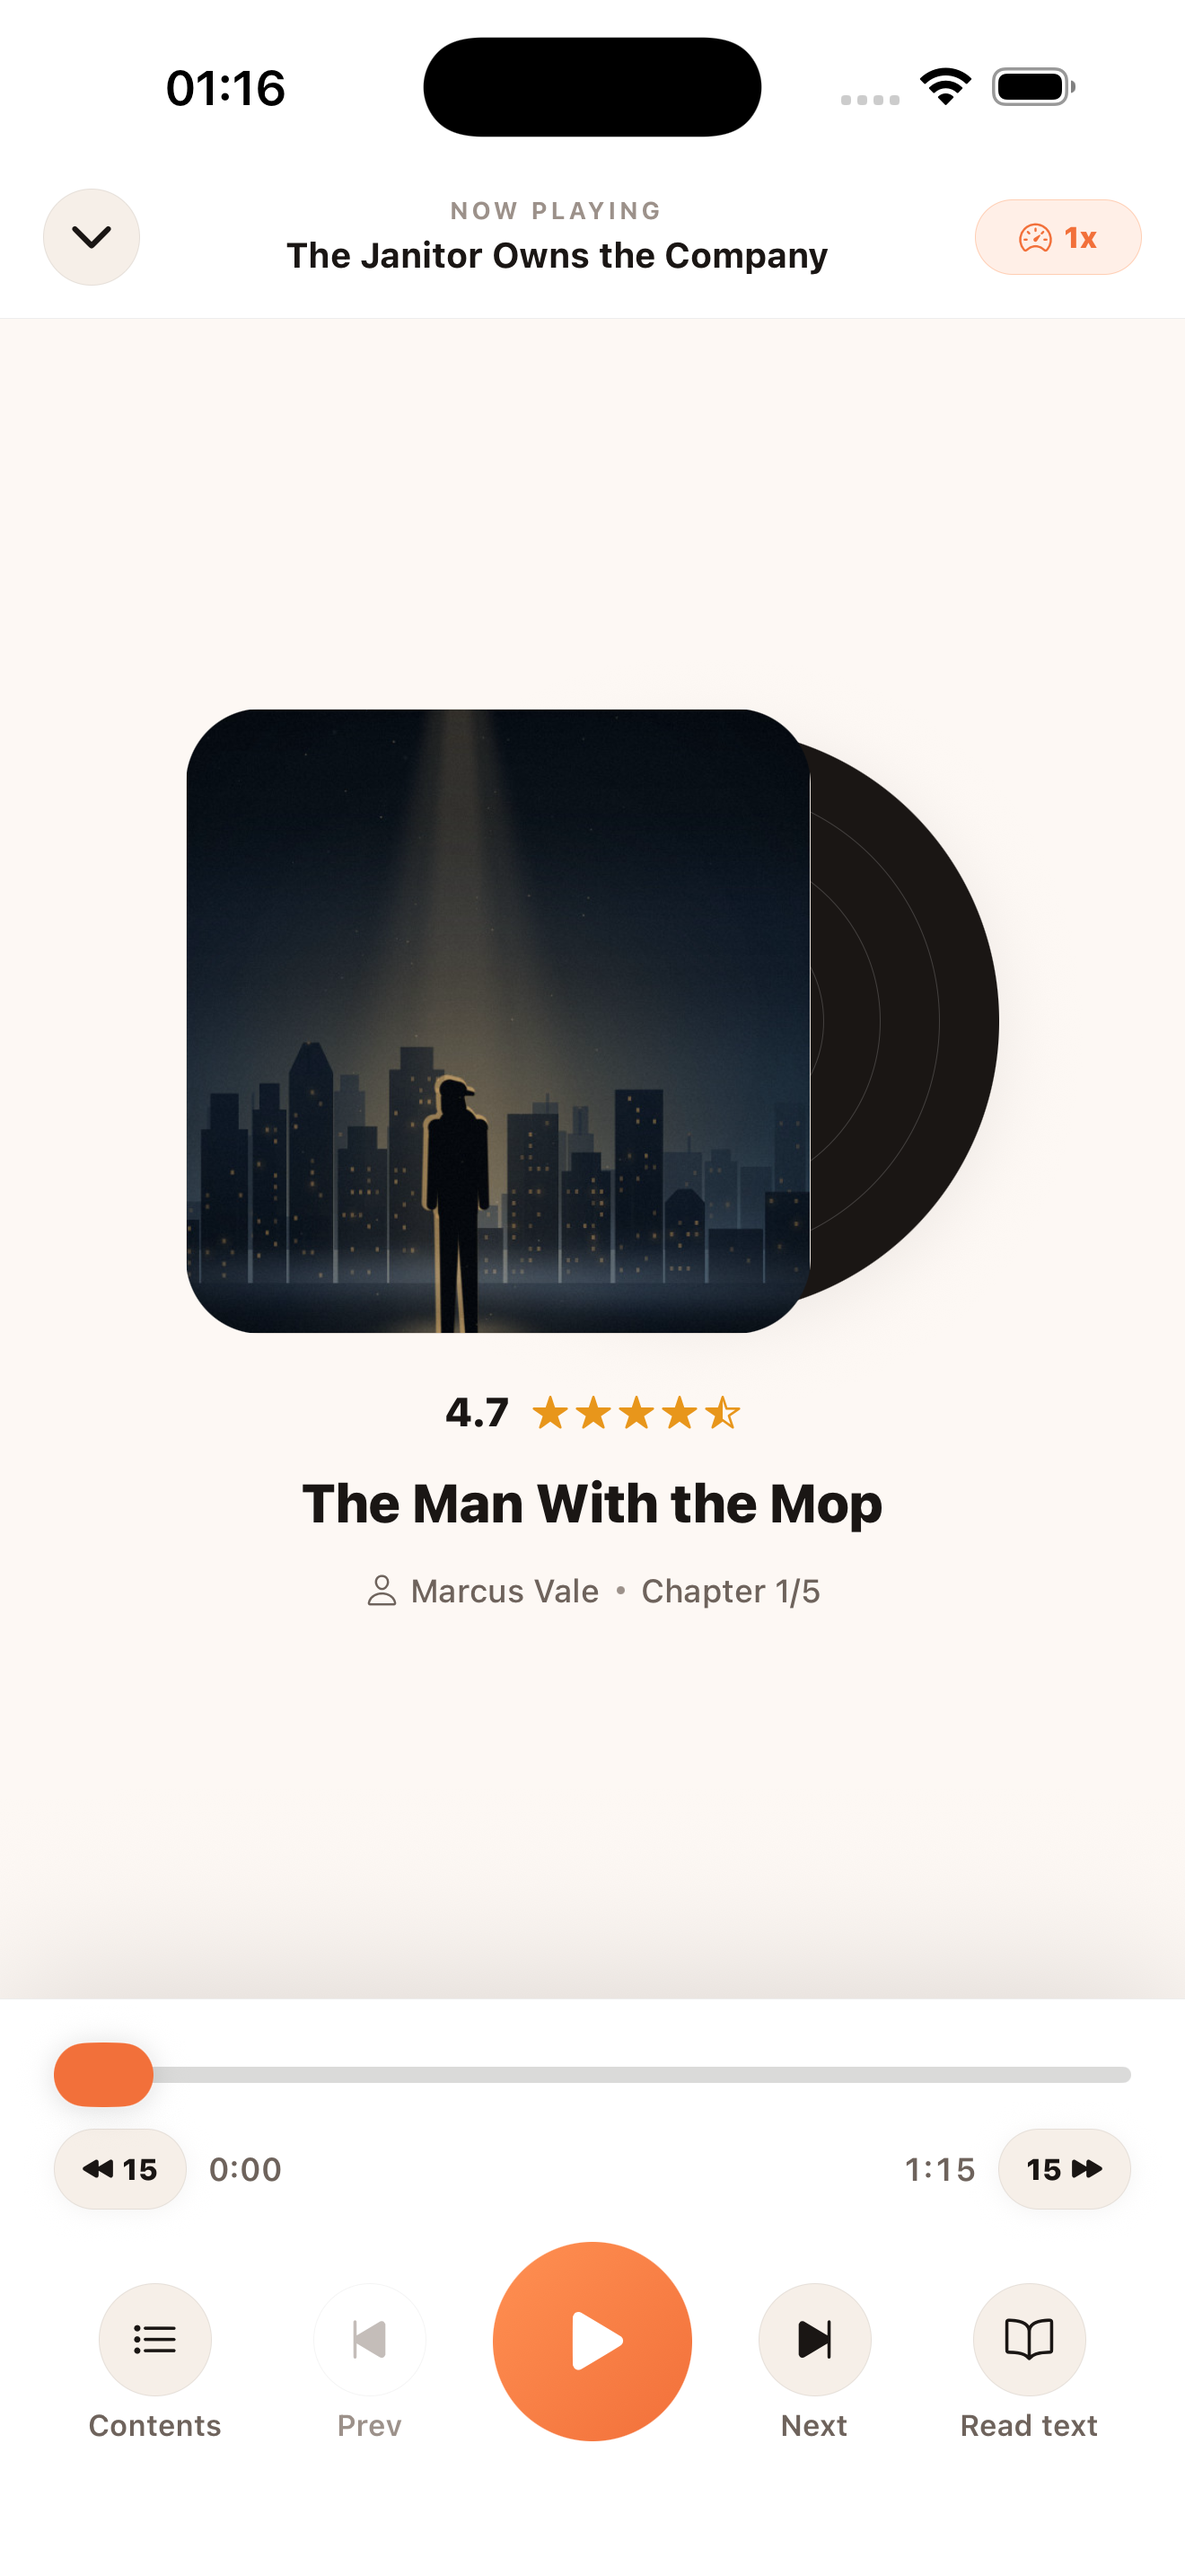
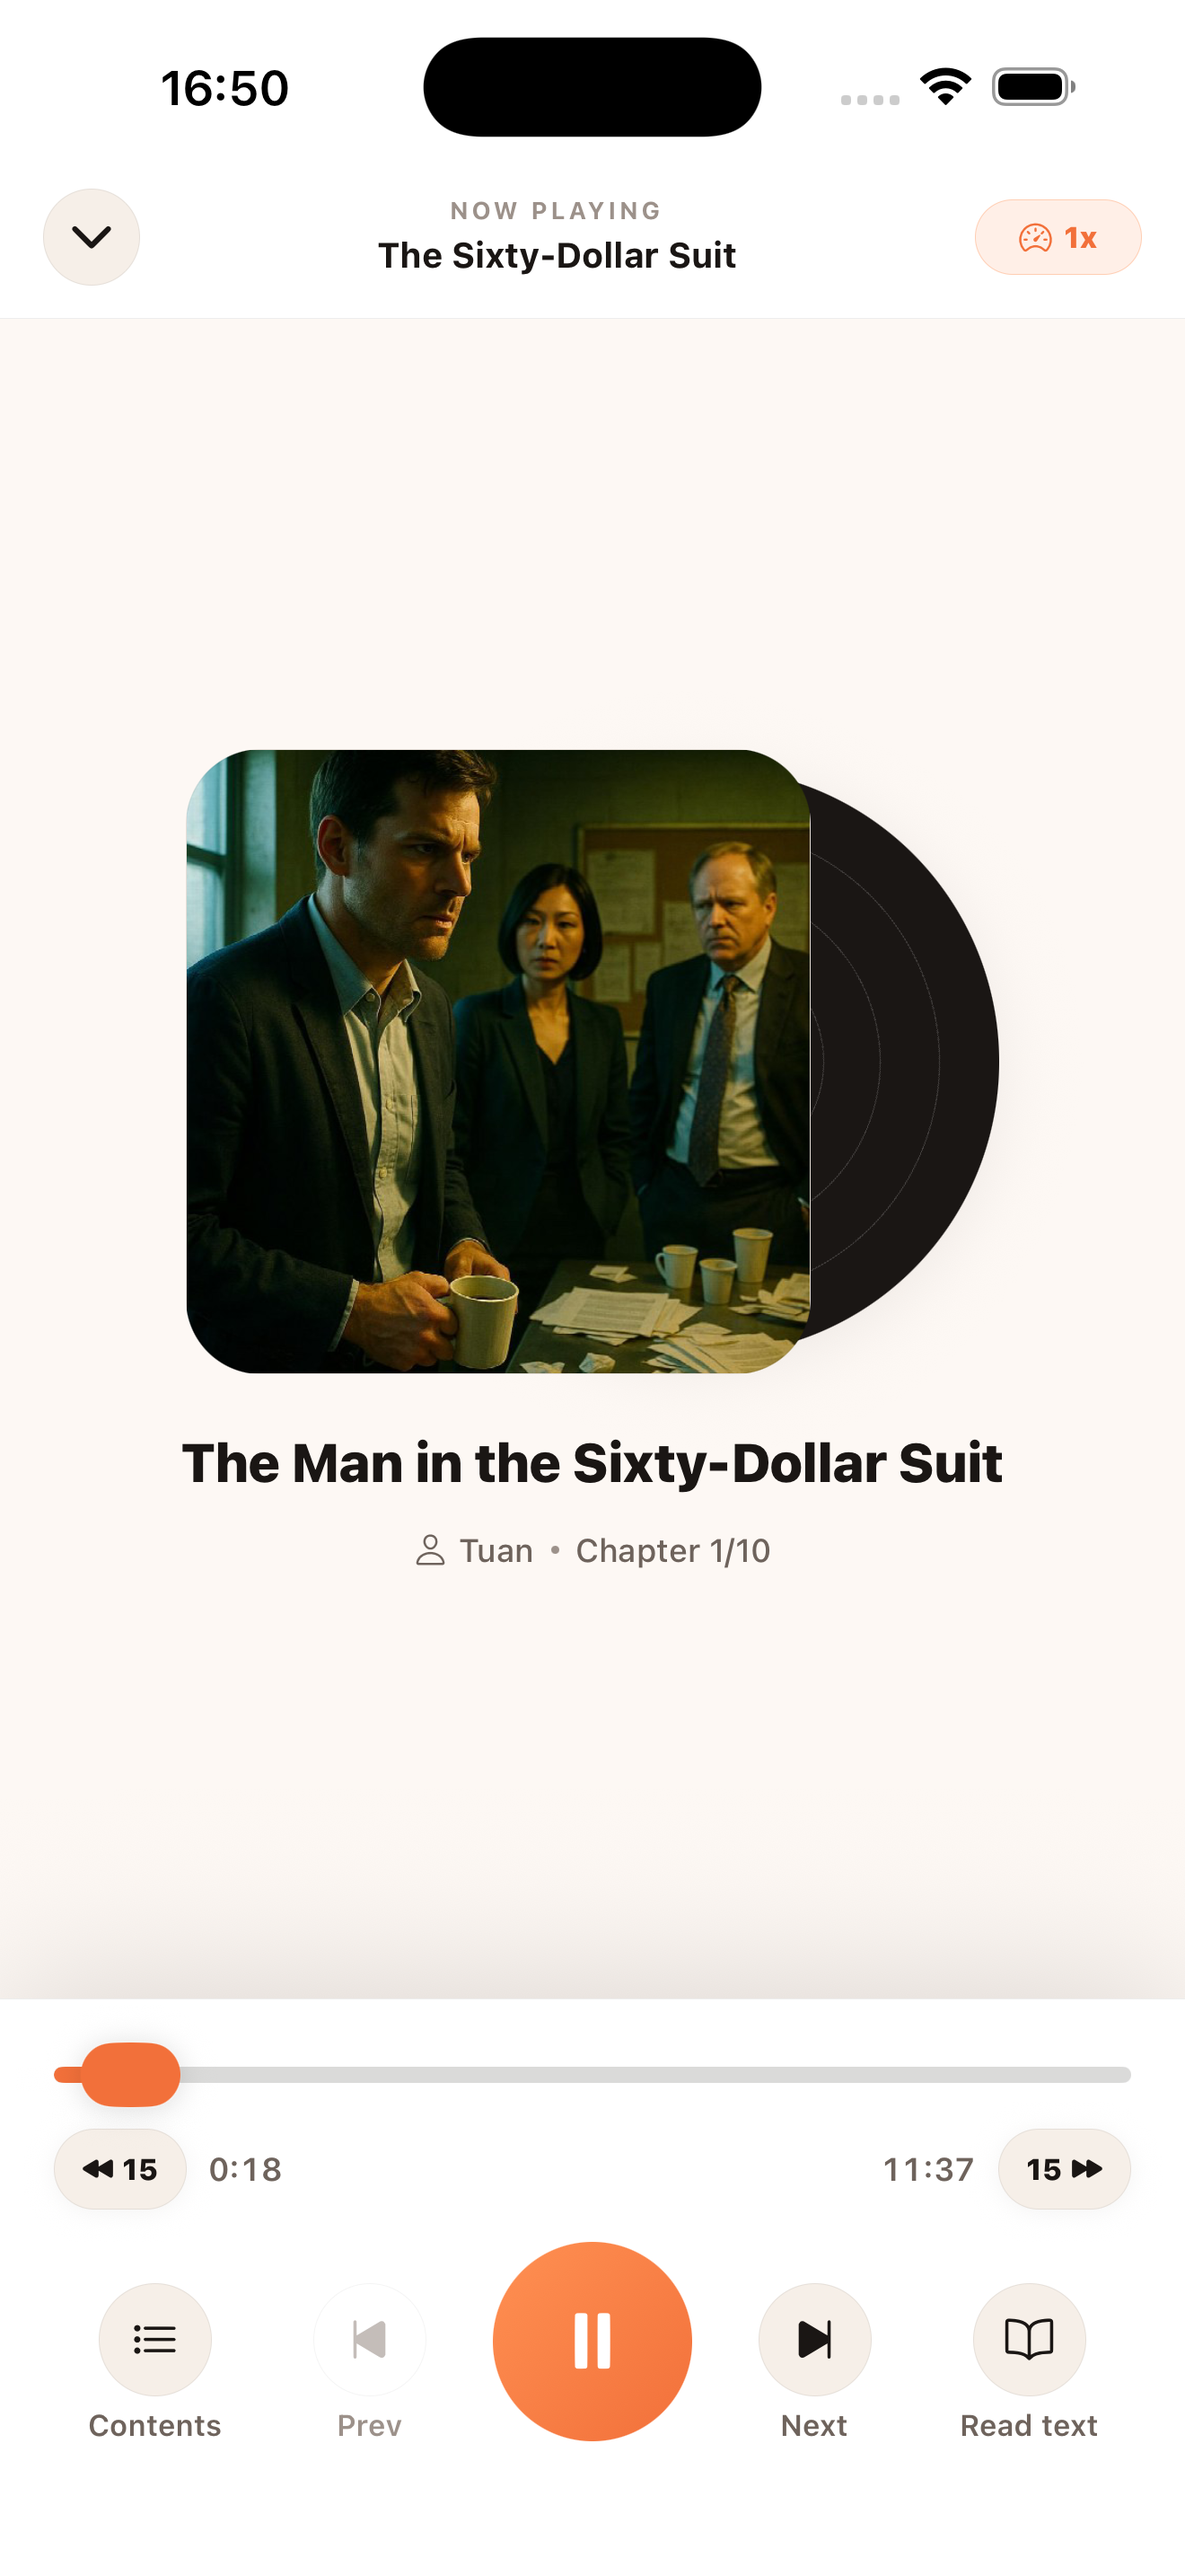
Chụp lại ảnh App Store từ bản 1.0.0 (3), và rút gọn ghi chú cho người review
Bộ ảnh cũ chụp từ bản 1.0.0 (2) lúc 01:18 sáng, trước ba commit dọn dẹp, nên
quảng cáo trên gian hàng những thứ binary không còn có: điểm đánh giá bịa
"8.9 ★ 1.2K ratings", ô giữ chỗ "Lucky draw — Coming soon", và mức thưởng cũ
"+30 coins / 0-150" trong khi bản nộp trả 90 xu mỗi quảng cáo, tối đa 360. Đây
là vi phạm 2.3.3 mà Apple đã nhắc riêng ở lần từ chối trước, cộng thêm việc
quảng cáo tính năng "coming soon" vốn bị cấm thẳng.

Ảnh mới chụp từ chính bản đã nộp, trên iPhone 17 Pro Max (1320×2868), lấy dữ
liệu production hiện tại nên phản ánh đúng 11 truyện và bộ bìa mới.

3-reader.png CHƯA dùng được: banner quảng cáo dính cố định ở đầu màn đọc, và
trên simulator AdMob luôn dán nhãn "Test mode" lên đó — nộp lên là tự chuốc lại
đúng nghi ngờ "app chạy quảng cáo thử nghiệm" của lần trước. Cuộn không đẩy được
banner ra khỏi khung. Phải chụp lại trên máy thật, tiện thể lúc quay video demo.

Thêm APP_REVIEW_NOTES.md: ô App Review Information → Notes chặn cứng 4.000 ký
tự, phần A trong APPLE_REVIEW_REPLY.md dài 7.880. Bản rút gọn 3.994 ký tự giữ
đủ cả sáu mục Apple hỏi; bản đầy đủ vẫn dùng cho ô Reply (ô đó không giới hạn).

diff --git a/store/APP_REVIEW_NOTES.md b/store/APP_REVIEW_NOTES.md
@@ -1,0 +1,43 @@
+# Ô App Review Information → Notes (giới hạn 4.000 ký tự)
+
+Ô Notes trong App Store Connect chặn cứng ở 4.000 ký tự. Phần A trong
+APPLE_REVIEW_REPLY.md dài 7.880 ký tự — đó là văn bản đầy đủ để dán vào ô
+**Reply** (không giới hạn) khi trả lời thư từ chối. Bản dưới đây là bản rút gọn
+cho ô **Notes**, giữ nguyên cả 6 mục Apple hỏi.
+
+Nhớ thay [PASTE LINK] bằng link video demo trước khi dán.
+
+```text
+NO ACCOUNT, NO PURCHASES, NO TRACKING
+
+1. SCREEN RECORDING
+Attached / at: [PASTE LINK]
+- Account registration, login, deletion: NOT APPLICABLE. Stories has no accounts of any kind — no sign-up, no sign-in, no profile. It is fully usable from first launch. Coin balance, unlocked chapters, saved stories and reading settings live only in local device storage (AsyncStorage) and are never sent to us. Nothing can be created, so nothing can be deleted.
+- User-generated content: NOT APPLICABLE. Users cannot post, comment, upload, message or share. No profiles, no social features, so reporting/blocking is not required.
+- Paid content: there are NO in-app purchases and NO subscriptions. Nothing can be bought with money. Chapter 1 of every story is free. Later chapters cost 30 "coins", an in-app virtual item earned FREE ONLY by (a) daily check-in, (b) reading-time milestones, (c) watching a Google AdMob rewarded video to completion (90 coins, so one ad unlocks three chapters). Coins cannot be purchased or transferred and have no monetary value.
+- Tracking: NOT APPLICABLE. The app never requests App Tracking Transparency, never reads the IDFA, and contains no NSUserTrackingUsageDescription. Ads are requested non-personalised. Our App Privacy answers say "used for tracking: No", which matches the binary.
+
+2. PURPOSE AND AUDIENCE
+Stories is a free short-fiction reading app: serialised English drama about people who are underestimated or betrayed. Each story is 3-10 short chapters sized for a few minutes on a phone; some carry narrated audio. Audience: adult readers of popular commercial fiction, roughly 18-45. No explicit sex, graphic violence or strong profanity. No user interaction. Not aimed at children. Business model: advertising only.
+
+3. HOW TO ACCESS EVERY FEATURE
+No credentials needed — there is no account system. Just launch the app.
+1) Home opens on a shelf of stories.
+2) Tap any story for its synopsis, genres and chapter list.
+3) Tap "Read now": chapter 1 is free and opens immediately. A banner ad shows at the top. The "Aa" button opens reading settings.
+4) Audio: narration exists for 4 of our 10 stories while we produce the rest; the "Listen" control is disabled on the others. THE SIXTY-DOLLAR SUIT has audio for all 10 chapters — open it and tap the headphone button. Audio streams as MP3 from our own server.
+5) Unlock a chapter: in THE SIXTY-DOLLAR SUIT tap chapter 2. It costs 30 coins. A new install has 0 coins, so tap "Watch ad - +90 coins" and watch the rewarded video TO THE END (closing early grants nothing, by Google's design). Then tap "Unlock" and the chapter opens.
+6) Rewards tab shows the three ways to earn coins. Library tab shows saved stories.
+
+4. EXTERNAL SERVICES
+At runtime the app contacts only two:
+- api.tunastory.com, our own VPS: read-only REST API serving story text, covers and MP3s. GET only. No user data or device identifier is ever sent.
+- Google AdMob: banner and rewarded ads, requested non-personalised.
+No analytics, attribution, crash-reporting or social SDKs — no Firebase, Facebook, Sentry, AppsFlyer, Adjust or Segment. No over-the-air code updates.
+Content production happens on our server before publication, never in the app: OpenAI gpt-4o-mini-tts for narration, gpt-image-1 for cover art. All story text is original fiction created by us for this app with the assistance of AI writing tools and reviewed by us. Narration and cover art are generated from our own text and owned by us. No licensed or third-party works, no fan fiction, no user submissions, no scraped content.
+
+5. REGIONAL DIFFERENCES
+None. Identical everywhere: no geographic gating, no region-specific content, pricing or feature flags. English only, worldwide. Only AdMob varies the ads it serves by region, handled entirely by Google.
+
+6. REGULATED INDUSTRY / THIRD-PARTY MATERIAL
+Not a financial, medical, gambling, health, dating or government service; no regulated advice. No third-party protected material, so no licences are required.```
